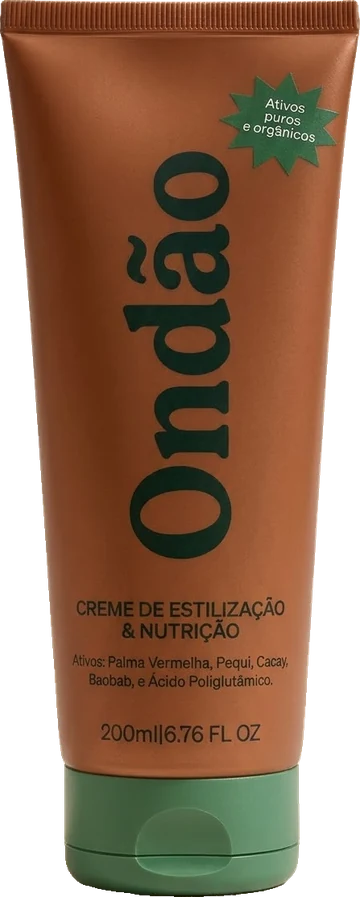
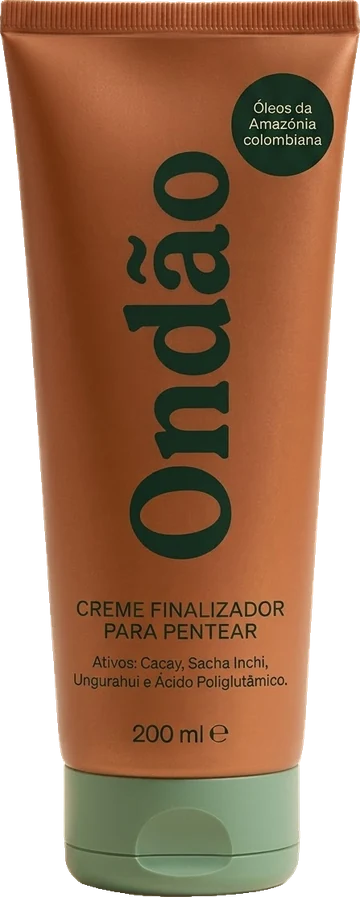
Rótulo novo do tubo: ingredientes Cacay, Sacha Inchi, Ungurahui e PGA
- src/ondao-tubo.webp: recorte do tubo com o rótulo novo (hero).
- src/tubo-frente.jpg: foto da frente para a galeria do produto e partilha (og:image).

Claude-Session: https://claude.ai/code/session_01H9RPMz7jiomzLHUGSC9h5u

Changed region(s): [[0.0, 0.0, 1.0, 1.0], [0.7944, 0.3434, 0.825, 0.3746]]

diff --git a/index.html b/index.html
@@ -7,7 +7,7 @@
 <meta name="description" content="Creme finalizador para pentear ondas e caracóis, feito à volta do óleo de Cacay da Colômbia. Define sem pesar e controla o frizz. Para ela e para ele.">
 <meta property="og:title" content="ondão — Ondas com raízes">
 <meta property="og:description" content="O creme finalizador que define ondas e caracóis sem pesar. Óleo de Cacay da Colômbia. Entre na Lista VIP: −15% no lançamento.">
-<meta property="og:image" content="src/IMG_3916.jpeg">
+<meta property="og:image" content="src/tubo-frente.jpg">
 <meta name="theme-color" content="#1C3327">
 <link rel="preconnect" href="https://fonts.googleapis.com">
 <link rel="preconnect" href="https://fonts.gstatic.com" crossorigin>
@@ -370,7 +370,7 @@ footer a:hover{color:var(--terra)}
     <div class="cena">
       <img class="modelo" src="src/hero-modelo.jpg" alt="Mulher com caracóis definidos a passar a mão pelo cabelo" fetchpriority="high">
       <span class="selo-usp" aria-label="Óleos da Colômbia"><span class="bandeira" aria-hidden="true"></span>Óleos da<br>Colômbia</span>
-      <img class="tubo" src="src/ondao-tubo.webp" alt="Tubo ondão, creme finalizador para pentear, 200 ml" onerror="this.onerror=null;this.src='src/IMG_3916.jpeg'">
+      <img class="tubo" src="src/ondao-tubo.webp" alt="Tubo ondão, creme finalizador para pentear, 200 ml" onerror="this.onerror=null;this.src='src/tubo-frente.jpg'">
     </div>
     <div class="oferta">
       <h1 class="promessa">Caracóis definidos, <em>sem peso.</em></h1>
@@ -394,7 +394,7 @@ footer a:hover{color:var(--terra)}
   <div class="wrap prod-grid">
     <div class="galeria">
       <div class="slides" id="slides" tabindex="0" aria-label="Galeria do produto">
-        <div class="slide contem"><img src="src/IMG_3916.jpeg" alt="Tubo ondão de frente"></div>
+        <div class="slide contem"><img src="src/tubo-frente.jpg" alt="Tubo ondão de frente"></div>
         <div class="slide"><img src="src/IMG_4142.jpeg" alt="Nozes de Cacay e óleo numa taça de cerâmica" loading="lazy"></div>
         <div class="slide"><img src="src/IMG_4141.jpeg" alt="Mulher e homem com cabelo cacheado" loading="lazy"></div>
         <div class="slide"><img src="src/0aeae066-7aa2-4c4f-8ad2-942072e97674.jpeg" alt="Casal com caracóis definidos" loading="lazy"></div>
